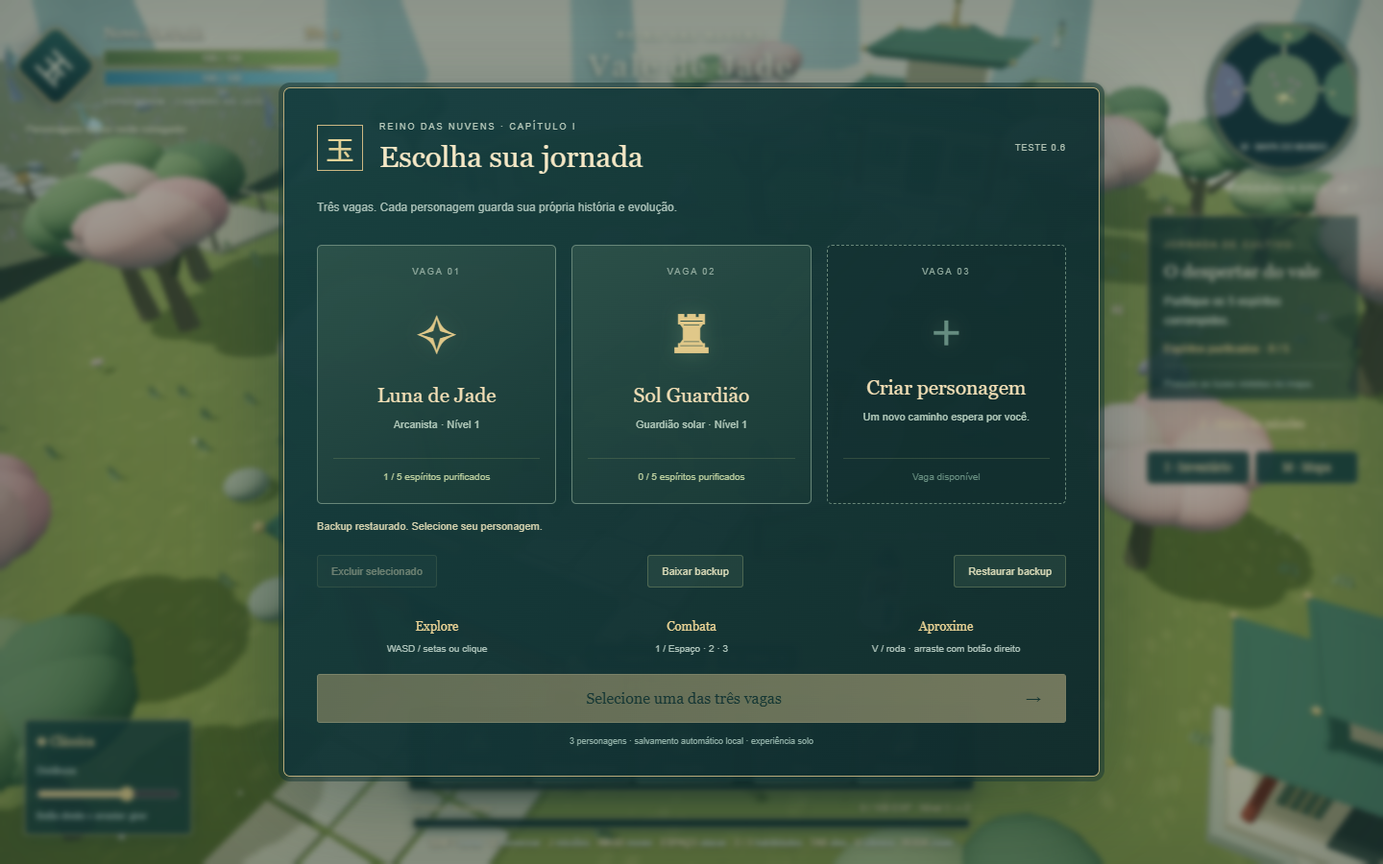
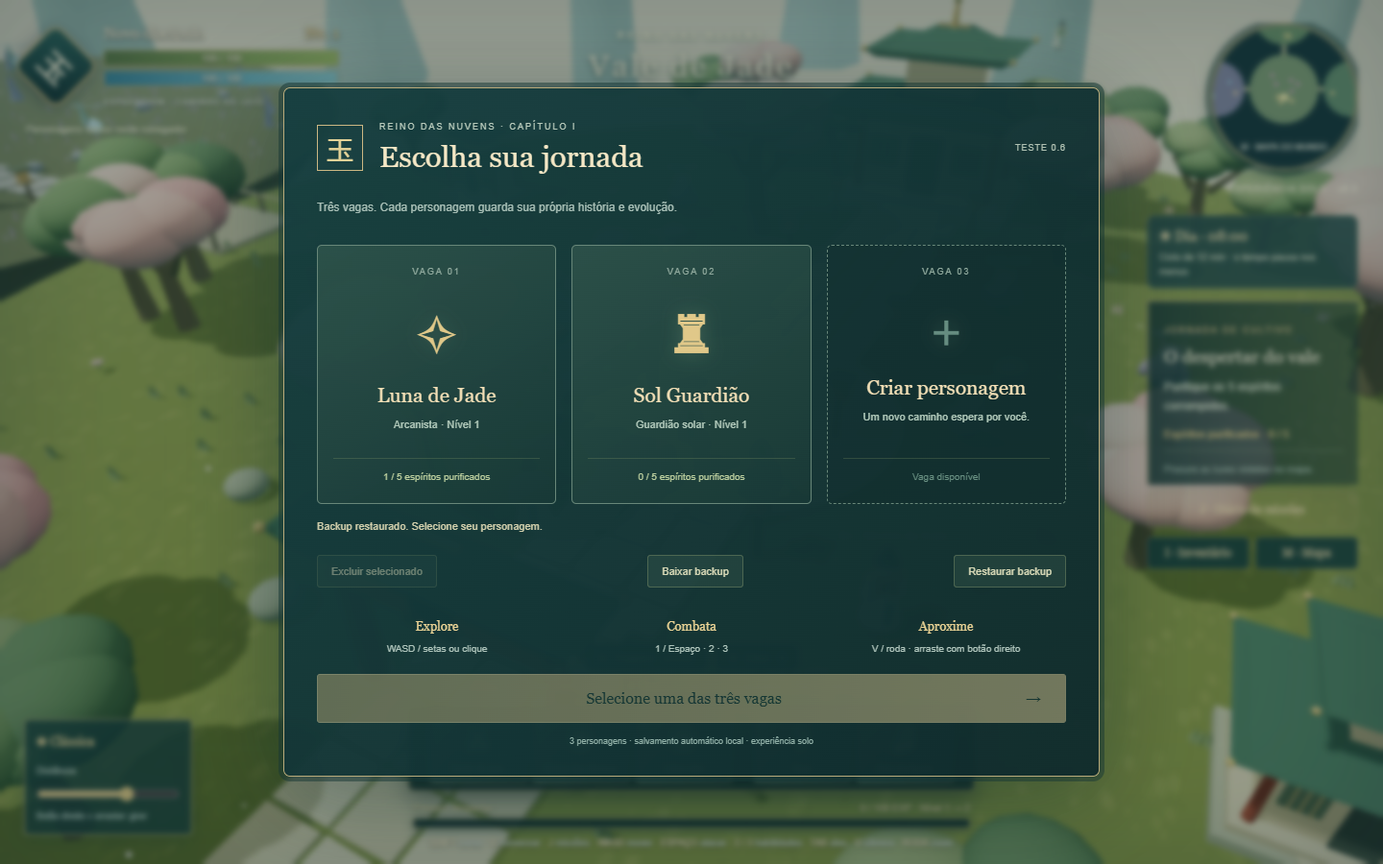
Vale de Jade v0.8: day-night cycle and torch lighting
Add a twelve-minute day/night cycle saved independently for each character and paused in menus. Blend the sky, fog, ambient light, moon and stars across dawn and dusk.

Place animated torches along roads, bridges and camps, with up to six pooled point lights illuminating nearby terrain and characters. Increase nighttime enemy perception by 50%, movement by 20% and attack cooldown recovery by 30%, while preserving the dodge warning duration. Show the clock, phase changes and nocturnal target status.

Verified continuous cycle rules, midnight wrap, pause/save/reload, actual nighttime pursuit, torch lights, legacy saves, three-slot backup/restore and 720p UI.

Changed region(s): [[0.8125, 0.2489, 1.0, 0.5911], [0.8125, 0.6222, 1.0, 0.6844]]

diff --git a/game.js b/game.js
@@ -5,7 +5,7 @@ let renderer;try{renderer=new T.WebGLRenderer({antialias:true,powerPreference:'h
 renderer.setPixelRatio(Math.min(devicePixelRatio,1.7));renderer.setSize(innerWidth,innerHeight);renderer.shadowMap.enabled=true;renderer.shadowMap.type=T.PCFSoftShadowMap;renderer.outputColorSpace=T.SRGBColorSpace;renderer.toneMapping=T.ACESFilmicToneMapping;renderer.toneMappingExposure=1.18;$('world').appendChild(renderer.domElement);
 const scene=new T.Scene();scene.background=new T.Color('#aec9c6');scene.fog=new T.FogExp2('#aec9c6',.008);
 const camera=new T.PerspectiveCamera(52,innerWidth/innerHeight,.08,420),clock=new T.Clock();
-scene.add(new T.HemisphereLight(0xfff4d9,0x658c83,1.7));const sun=new T.DirectionalLight(0xffe9c5,2.1);sun.position.set(-22,40,18);sun.castShadow=true;sun.shadow.mapSize.set(2048,2048);Object.assign(sun.shadow.camera,{left:-45,right:45,top:45,bottom:-45,near:1,far:110});sun.shadow.bias=-.001;scene.add(sun);
+const ambient=new T.HemisphereLight(0xfff4d9,0x658c83,1.7);scene.add(ambient);const sun=new T.DirectionalLight(0xffe9c5,2.1);sun.position.set(-22,40,18);sun.castShadow=true;sun.shadow.mapSize.set(2048,2048);Object.assign(sun.shadow.camera,{left:-45,right:45,top:45,bottom:-45,near:1,far:110});sun.shadow.bias=-.001;scene.add(sun);
 const mats=new Map();function mat(c){if(!mats.has(c))mats.set(c,new T.MeshStandardMaterial({color:c,roughness:.82,metalness:.02}));return mats.get(c);}
 function mesh(g,c,x=0,y=0,z=0,parent=scene){const m=new T.Mesh(g,typeof c==='string'||typeof c==='number'?mat(c):c);m.position.set(x,y,z);m.castShadow=true;m.receiveShadow=true;parent.add(m);return m;}
 function box(w,h,d,c,x,y,z,p){return mesh(new T.BoxGeometry(w,h,d),c,x,y,z,p);}function ball(r,c,x,y,z,p,s=1){const m=mesh(new T.IcosahedronGeometry(r,2),c,x,y,z,p);m.scale.y=s;return m;}
@@ -77,7 +77,7 @@ document.querySelectorAll('[data-class]').forEach(b=>b.onclick=()=>{if(menuMode!
 function renderSlots(){const wrap=$('slotCards');wrap.replaceChildren();characterStore.data.slots.forEach((slot,i)=>{const button=document.createElement('button');button.className='slotCard'+(selectedSlot===i?' chosen':'')+(slot?' occupied':' empty');button.dataset.slot=i;button.setAttribute('aria-pressed',selectedSlot===i?'true':'false');const number=document.createElement('small');number.textContent='VAGA 0'+(i+1);const icon=document.createElement('span');icon.className='slotIcon';icon.textContent=slot?CLASSES[slot.classId].icons[0]:'＋';const title=document.createElement('b');title.textContent=slot?slot.name:'Criar personagem';const detail=document.createElement('p');detail.textContent=slot?CLASSES[slot.classId].name+' · Nível '+slot.state.level:'Um novo caminho espera por você.';const status=document.createElement('div');status.className='slotProgress';const dead=slot?.state.enemies?.filter(e=>e.id<5&&!e.alive).length||0;status.textContent=slot?(slot.state.enemies?.some(e=>e.id===5&&!e.alive)?'✧ Vale restaurado':dead+' / 5 espíritos purificados'):'Vaga disponível';button.append(number,icon,title,detail,status);button.onclick=()=>{selectedSlot=i;$('deleteConfirm').hidden=true;if(!slot){menuMode='create';classId='sword';profileName='';$('nameInput').value='';$('roster').hidden=true;$('creationFields').hidden=false;$('backToSlots').hidden=false;$('classSummary').hidden=false;$('introText').textContent='Criar personagem na vaga '+(i+1)+'. As outras vagas permanecem guardadas.';$('start').disabled=false;$('start').innerHTML='Criar e entrar no vale <span>→</span>';$('profileStatus').textContent='Escolha um nome com 2 a 20 caracteres.';applyClass();$('nameInput').focus();}else{renderSlots();$('start').disabled=false;$('start').innerHTML='Jogar com '+escapeText(slot.name)+' <span>→</span>';}};wrap.append(button);});$('deleteSlot').disabled=selectedSlot<0||!characterStore.data.slots[selectedSlot];$('rosterStatus').textContent=characterStore.warning||'Escolha um personagem para continuar ou uma vaga vazia para criar.';}
 function escapeText(s){return s.replace(/[&<>"']/g,c=>({'&':'&amp;','<':'&lt;','>':'&gt;','"':'&quot;',"'":'&#39;'}[c]));}
 function showRoster(){running=false;started=false;activeSlot=-1;selectedSlot=-1;menuMode='roster';keysClear();selected=null;destination=null;$('target').hidden=true;$('enemyFloat').hidden=true;$('modal').style.display='grid';$('modal').classList.remove('paused');$('roster').hidden=false;$('creationFields').hidden=true;$('backToSlots').hidden=true;$('classSummary').hidden=true;$('pauseActions').hidden=true;$('deleteConfirm').hidden=true;$('restoreConfirm').hidden=true;toastTimer=0;$('toast').style.opacity=0;$('introText').textContent='Três vagas. Cada personagem guarda sua própria história e evolução.';$('start').disabled=true;$('start').innerHTML='Selecione uma das três vagas <span>→</span>';renderSlots();}
-function snapshot(){return {journey,inventory:bag,worldSeed:worldData.seed,discovered:[...discovered],summons:summons.filter(n=>n.hp>0).map(n=>({kind:n.kind,hp:n.hp,life:n.life})),quests:{...questStates},crystals:[...collected],level,xp,hp,mp,position:{x:player.position.x,z:player.position.z},rotation:player.rotation.y,cooldowns:[...cds],shieldTime,camDistance,camYaw,camPitch,enemies:enemies.filter(e=>!e.event).map(e=>({id:e.id,alive:e.alive,hp:e.hp,x:e.g.position.x,z:e.g.position.z,respawn:e.respawn||0,cycle:e.lootCycle||0}))};}
+function snapshot(){return {dayTime:environment.seconds,journey,inventory:bag,worldSeed:worldData.seed,discovered:[...discovered],summons:summons.filter(n=>n.hp>0).map(n=>({kind:n.kind,hp:n.hp,life:n.life})),quests:{...questStates},crystals:[...collected],level,xp,hp,mp,position:{x:player.position.x,z:player.position.z},rotation:player.rotation.y,cooldowns:[...cds],shieldTime,camDistance,camYaw,camPitch,enemies:enemies.filter(e=>!e.event).map(e=>({id:e.id,alive:e.alive,hp:e.hp,x:e.g.position.x,z:e.g.position.z,respawn:e.respawn||0,cycle:e.lootCycle||0}))};}
 function saveCharacter(manual=false){if(activeSlot<0)return false;const previous=characterStore.data.slots[activeSlot];const ok=characterStore.set(activeSlot,{...previous,name:profileName,classId,updatedAt:Date.now(),state:snapshot()});profileSaved=ok;saveTimer=0;saveRequested=false;lastSaveAt=Date.now();$('saveStatus').textContent=ok?'✓ '+profileName+' · salvo às '+new Date().toLocaleTimeString('pt-BR',{hour:'2-digit',minute:'2-digit'}):'⚠ Falha ao salvar · baixe um backup no menu';$('saveStatus').classList.toggle('saveError',!ok);if(manual){const message=ok?'Progresso de '+profileName+' salvo.':characterStore.warning;if(menuMode==='pause')$('introText').textContent=message;else toast(message);}return ok;}
 function clearTransient(){resetTrial();clearSummons();for(const e of effects)disposeEffect(e.m);effects.length=0;for(const f of floaters)disposeEffect(f.m);floaters.length=0;selected=null;destination=null;marker.visible=false;attackAnim=0;combo=0;comboTimer=0;}
 function clearEnemies(){for(const e of enemies){scene.remove(e.g,e.aura);e.g.traverse(o=>{if(!o.isSprite)o.geometry?.dispose();if(o.isMesh&&!Array.from(mats.values()).includes(o.material))o.material.dispose();if(o.isSprite){o.material.map?.dispose();o.material.dispose();}});e.aura.geometry.dispose();e.aura.material.dispose();}enemies.length=0;boss=null;}
@@ -133,15 +133,15 @@ const petalGeo=new T.BufferGeometry(),petalPos=[];for(let i=0;i<120;i++)petalPos
 const map=$('map').getContext('2d');function minimap(){map.clearRect(0,0,170,170);map.fillStyle='#31594e';map.fillRect(0,0,170,170);map.fillStyle='#79937a';map.beginPath();map.arc(85,85,73,0,7);map.fill();map.strokeStyle='#c9c7a0';map.lineWidth=5;map.beginPath();map.moveTo(85,32);map.lineTo(85,144);map.stroke();map.fillStyle='#6bb1ad';map.beginPath();map.ellipse(58,91,15,10,0,0,7);map.fill();map.fillStyle='#f0d29b';map.fillRect(77,34,16,10);for(const e of enemies.filter(e=>e.alive&&!e.dormant)){map.fillStyle=e.boss?'#ffc36f':'#d8b7f3';map.beginPath();map.arc(85+e.g.position.x*2.1,85+e.g.position.z*2.1,e.boss?4:3,0,7);map.fill();}map.fillStyle='#fff5c7';map.beginPath();map.arc(85+player.position.x*2.1,85+player.position.z*2.1,4,0,7);map.fill();}
 $('clearTarget').onclick=()=>{selected=null;destination=null;hud();};
 function cycleTarget(){const list=enemies.filter(e=>e.alive&&!e.dormant&&distanceTo(e)<28).sort((a,b)=>distanceTo(a)-distanceTo(b));if(!list.length){toast('Nenhum inimigo próximo.');return;}selected=list[(list.indexOf(selected)+1)%list.length];destination=null;hud();}
-function targetHUD(){const e=selected?.alive?selected:null;$('target').hidden=!e;$('enemyFloat').hidden=true;for(const n of enemies){n.aura.material.color.set(n===e?'#ffe2a3':n.boss?'#e9ab74':'#a6a0d9');n.aura.material.opacity=n===e?.95:.35;}if(!e)return;const pct=e.hp/e.max*100;$('targetName').textContent=e.name;$('targetKind').textContent=e.kind;$('targetHP').style.width=pct+'%';$('targetHPText').textContent=Math.ceil(e.hp)+' / '+e.max+' PV';$('targetHP').parentElement.setAttribute('aria-valuenow',Math.round(pct));$('targetDistance').textContent=Math.ceil(distanceTo(e))+' m · '+(distanceTo(e)<=config().range?'Ao alcance':'Fora do alcance')+' · TAB para trocar';}
+function targetHUD(){const e=selected?.alive?selected:null;$('target').hidden=!e;$('enemyFloat').hidden=true;for(const n of enemies){n.aura.material.color.set(n===e?'#ffe2a3':n.boss?'#e9ab74':'#a6a0d9');n.aura.material.opacity=n===e?.95:.35;}if(!e)return;const pct=e.hp/e.max*100;$('targetName').textContent=e.name;$('targetKind').textContent=e.kind+(environment.cycle.night>=.5?' · FÚRIA NOTURNA':'');$('targetHP').style.width=pct+'%';$('targetHPText').textContent=Math.ceil(e.hp)+' / '+e.max+' PV';$('targetHP').parentElement.setAttribute('aria-valuenow',Math.round(pct));$('targetDistance').textContent=Math.ceil(distanceTo(e))+' m · '+(distanceTo(e)<=config().range?'Ao alcance':'Fora do alcance')+' · TAB para trocar';}
 function floatingTarget(){if(!running||!selected?.alive){$('enemyFloat').hidden=true;return;}const v=selected.g.position.clone();v.y+=selected.boss?4.4:2.65;v.project(camera);const x=(v.x+1)*innerWidth/2,y=(1-v.y)*innerHeight/2;const visible=v.z>-1&&v.z<1&&x>40&&x<innerWidth-40&&y>120&&y<innerHeight-160;$('enemyFloat').hidden=!visible;if(visible){$('enemyFloat').style.transform=`translate(${x}px,${y}px) translate(-50%,-100%)`;$('enemyFloatName').textContent=selected.name;$('enemyFloatHP').style.width=(selected.hp/selected.max*100)+'%';}}
 let hudTimer=0;function hud(){hp=Math.max(0,hp);$('hp').style.transform=`scaleX(${hp/100})`;$('mp').style.transform=`scaleX(${mp/100})`;$('hpText').textContent=`${Math.ceil(hp)} / 100`;$('mpText').textContent=`${Math.floor(mp)} / 100`;$('level').textContent='Nv. '+level;const progress=Math.min(100,xp/nextXP()*100);$('xp').style.width=progress+'%';$('xp').parentElement.setAttribute('aria-valuenow',Math.round(progress));$('xpText').textContent=`${xp} / ${nextXP()} EXP · Nível ${level} → ${level+1}`;$('rankTitle').textContent=['Primeiro despertar','Discípulo do vale','Cultivador do jade'][Math.min(level-1,2)]+(shieldTime>0?' · Égide '+Math.ceil(shieldTime)+'s':'');document.querySelectorAll('[data-skill]').forEach((b,i)=>{const em=b.querySelector('em');em.style.display=cds[i]>.05?'flex':'none';em.textContent=cds[i]<1?cds[i].toFixed(1):Math.ceil(cds[i]);b.classList.toggle('noEnergy',mp<config().costs[i]);});targetHUD();minimap();}
-function frame(){requestAnimationFrame(frame);const dt=Math.min(clock.getDelta(),.04);time+=dt;
+function frame(){requestAnimationFrame(frame);const dt=Math.min(clock.getDelta(),.04);time+=dt;environment.update(dt,running,toast);
 if(running){updateJourney(dt);if((keys['1']||keys[' '])&&enemies.some(e=>e.alive&&!e.dormant&&distanceTo(e)<=config().range)&&(!selected||distanceTo(selected)<=config().range))skill(0);saveTimer+=dt;for(let i=0;i<3;i++)cds[i]=Math.max(0,cds[i]-dt);mp=Math.min(100,mp+dt*config().regen);shieldTime=Math.max(0,shieldTime-dt);comboTimer=Math.max(0,comboTimer-dt);let dx=0,dz=0;let sx=(keys.d||keys.arrowright?1:0)-(keys.a||keys.arrowleft?1:0),sy=(keys.s||keys.arrowdown?1:0)-(keys.w||keys.arrowup?1:0);if(sx||sy){destination=null;marker.visible=false;dx=sx*Math.cos(camYaw)+sy*Math.sin(camYaw);dz=-sx*Math.sin(camYaw)+sy*Math.cos(camYaw);}else if(destination){if(selected?.alive)destination.copy(selected.g.position);let d=destination.clone().sub(player.position);d.y=0;if(d.length()>(selected?config().range*.8:.25)){dx=d.x;dz=d.z;}else{if(selected)skill(0);else{destination=null;marker.visible=false;}}}let moving=!!(dx||dz);if(moving){let len=Math.hypot(dx,dz);move(dx/len*dt*(keys.shift?9:5.8),dz/len*dt*(keys.shift?9:5.8));}player.position.y=Math.abs(player.position.x+13)<8&&Math.abs(player.position.z-3)<1.15?.35+Math.sin(T.MathUtils.clamp((player.position.x+22)/12.35,0,1)*Math.PI)*1.05:0;
 attackAnim=Math.max(0,attackAnim-dt);player.userData.arms.forEach((a,i)=>a.rotation.x=attackAnim>0?-1.3+Math.sin(attackAnim*22)*.9:moving?Math.sin(time*12+i*Math.PI)*.4:Math.sin(time*2+i)*.045);
 updateExpansion(dt);updateAdventure(dt);
-for(const e of enemies){if(!e.alive||e.dormant||distanceTo(e)>65)continue;e.hit=Math.max(0,e.hit-dt);e.atk-=dt;const victim=enemyVictim(e);const d=victim.position.clone().sub(e.g.position);d.y=0;const distance=d.length(),reach=e.type==='wisp'?8:2.3;
-if(distance<(e.aggro||10)&&distance>reach*.8){d.normalize();const nx=e.g.position.x+d.x*dt*(e.speed||2),nz=e.g.position.z+d.z*dt*(e.speed||2);if(legal(nx,nz)){e.g.position.x=nx;e.g.position.z=nz;}e.g.rotation.y=Math.atan2(d.x,d.z);}
+for(const e of enemies){if(!e.alive||e.dormant||distanceTo(e)>65)continue;e.hit=Math.max(0,e.hit-dt);e.atk-=dt*environment.cycle.attackRate;const victim=enemyVictim(e);const d=victim.position.clone().sub(e.g.position);d.y=0;const distance=d.length(),reach=e.type==='wisp'?8:2.3;
+if(distance<(e.aggro||10)*environment.cycle.aggro&&distance>reach*.8){d.normalize();const nx=e.g.position.x+d.x*dt*(e.speed||2)*environment.cycle.speed,nz=e.g.position.z+d.z*dt*(e.speed||2)*environment.cycle.speed;if(legal(nx,nz)){e.g.position.x=nx;e.g.position.z=nz;}e.g.rotation.y=Math.atan2(d.x,d.z);}
 if(distance<reach&&e.atk<=0&&!e.windup){e.windup=.7;const warning=ring(e.type==='wisp'?1.7:2.5,'#ff7759',victim.position.x,victim.position.z,.12);addFX(warning,.7,{grow:.15});e.strike={x:victim.position.x,z:victim.position.z};}
 if(e.windup){e.windup-=dt;if(e.windup<=0){e.windup=0;e.atk=e.boss?1.8:2;burst(e.strike.x,e.strike.z,e.color||'#f0b69e',10,.3);if(resolveEnemyStrike(e)){break;}}}
 
@@ -330,9 +330,13 @@ const commerce=JadeCommerce({data:economyData,index:()=>activeSlot,dialog:(...ar
 }});
 const talkEconomyBase=talk;talk=function(n){talkEconomyBase(n);const r=JadeEconomy.REGIONS.findIndex(r=>r.id===n.id);if(r>0)dialogButton('Abrir mercado e trocas',()=>commerce.open(r));};
 
+// v0.8: persistent daylight and pooled torch lighting.
+const environment=JadeEnvironment({T,scene,sky,sun,ambient,player,glowTexture,legal});
+const loadDaylightBase=loadAdventure;loadAdventure=function(st){loadDaylightBase(st);environment.load(st,worldData);};
+
 applyClass();setDistance(30);camera.position.set(15,23,30);showRoster();hud();frame();window.addEventListener('resize',()=>{camera.aspect=innerWidth/innerHeight;camera.updateProjectionMatrix();renderer.setSize(innerWidth,innerHeight);});
 // Read-only diagnostics for smoke checks and future iteration.
-window.valeDeJade={getState:()=>({economy:JSON.parse(JSON.stringify(JadeEconomy.current(characterStore.data.economy))),journey:JSON.parse(JSON.stringify(journey)),trial:trial?{wave:trial.wave,remaining:enemies.filter(e=>e.event&&e.alive).length}:null,dodgeCD,potionCD,combatTime,activities:activities.map(a=>({kind:a.kind,id:a.id,x:a.g.position.x,z:a.g.position.z,visible:a.g.visible})),inventory:JSON.parse(JSON.stringify(bag)),gearBonus:{...gearBonus},inventoryOpen,atlasOpen,worldSeed:worldData.seed,regions:worldData.regions.map(r=>({id:r.id,x:r.x,z:r.z,r:r.r,tier:r.tier,name:r.name})),discovered:[...discovered],summons:summons.map(n=>({kind:n.kind,hp:n.hp,max:n.max,life:n.life,x:n.g.position.x,z:n.g.position.z})),running,menuMode,activeSlot,selectedSlot,slots:characterStore.data.slots.map(s=>s?{name:s.name,classId:s.classId,level:s.state.level,xp:s.state.xp}:null),selectedEnemy:selected?.alive?{id:selected.id,hp:selected.hp,max:selected.max}:null,hp,mp,kills,level,xp,xpNeeded:nextXP(),classId,profileName,profileSaved,camDistance,camYaw,camPitch,shieldTime,cooldowns:[...cds],won,position:{x:player.position.x,z:player.position.z},enemies:enemies.filter(e=>e.alive&&!e.dormant).map(e=>({id:e.id,x:e.g.position.x,z:e.g.position.z,hp:e.hp,max:e.max,power:e.power,level:e.level,procedural:e.procedural,boss:e.boss,type:e.type,name:e.name,screen:(()=>{const v=e.g.position.clone();v.y+=1.2;v.project(camera);return {x:(v.x+1)*innerWidth/2,y:(1-v.y)*innerHeight/2};})()})),quests:{...questStates},crystals:[...collected],region:regionName(),npcs:npcs.map(n=>({id:n.id,name:n.name,x:n.g.position.x,z:n.g.position.z})),drawCalls:renderer.info.render.calls})};
+window.valeDeJade={getState:()=>({daylight:environment.inspect(),economy:JSON.parse(JSON.stringify(JadeEconomy.current(characterStore.data.economy))),journey:JSON.parse(JSON.stringify(journey)),trial:trial?{wave:trial.wave,remaining:enemies.filter(e=>e.event&&e.alive).length}:null,dodgeCD,potionCD,combatTime,activities:activities.map(a=>({kind:a.kind,id:a.id,x:a.g.position.x,z:a.g.position.z,visible:a.g.visible})),inventory:JSON.parse(JSON.stringify(bag)),gearBonus:{...gearBonus},inventoryOpen,atlasOpen,worldSeed:worldData.seed,regions:worldData.regions.map(r=>({id:r.id,x:r.x,z:r.z,r:r.r,tier:r.tier,name:r.name})),discovered:[...discovered],summons:summons.map(n=>({kind:n.kind,hp:n.hp,max:n.max,life:n.life,x:n.g.position.x,z:n.g.position.z})),running,menuMode,activeSlot,selectedSlot,slots:characterStore.data.slots.map(s=>s?{name:s.name,classId:s.classId,level:s.state.level,xp:s.state.xp}:null),selectedEnemy:selected?.alive?{id:selected.id,hp:selected.hp,max:selected.max}:null,hp,mp,kills,level,xp,xpNeeded:nextXP(),classId,profileName,profileSaved,camDistance,camYaw,camPitch,shieldTime,cooldowns:[...cds],won,position:{x:player.position.x,z:player.position.z},enemies:enemies.filter(e=>e.alive&&!e.dormant).map(e=>({id:e.id,x:e.g.position.x,z:e.g.position.z,hp:e.hp,max:e.max,power:e.power,aggro:(e.aggro||10)*environment.cycle.aggro,speed:(e.speed||2)*environment.cycle.speed,attackRate:environment.cycle.attackRate,level:e.level,procedural:e.procedural,boss:e.boss,type:e.type,name:e.name,screen:(()=>{const v=e.g.position.clone();v.y+=1.2;v.project(camera);return {x:(v.x+1)*innerWidth/2,y:(1-v.y)*innerHeight/2};})()})),quests:{...questStates},crystals:[...collected],region:regionName(),npcs:npcs.map(n=>({id:n.id,name:n.name,x:n.g.position.x,z:n.g.position.z})),drawCalls:renderer.info.render.calls})};
 })();
 
 

diff --git a/index.html b/index.html
@@ -1,9 +1,9 @@
 <!doctype html>
-<html lang="pt-BR"><head><meta charset="utf-8"><meta name="viewport" content="width=device-width,initial-scale=1"><title>Vale de Jade · O despertar</title><link rel="stylesheet" href="style.css?v=7"></head>
+<html lang="pt-BR"><head><meta charset="utf-8"><meta name="viewport" content="width=device-width,initial-scale=1"><title>Vale de Jade · O despertar</title><link rel="stylesheet" href="style.css?v=8"></head>
 <body><div id="world"></div><div id="vignette"></div>
 <header><div class="crest">玉</div><div class="stats"><div class="name"><strong id="playerName">Discípulo das nuvens</strong> <span id="level">Nv. 1</span></div><div class="bar health"><i id="hp"></i><span id="hpText">100 / 100</span></div><div class="bar spirit"><i id="mp"></i><span id="mpText">100 / 100</span></div><small id="classTitle">ESPADACHIM · CAMINHO DO JADE</small></div></header>
 <div id="location"><span>REINO DAS NUVENS</span><h1>Vale de Jade</h1><div id="regionName">Santuário da Aurora</div></div>
-<aside><div class="mapFrame"><canvas id="map" width="170" height="170"></canvas><span>N</span></div><div class="version">EXPERIÊNCIA SOLO · v0.7</div><section class="quest"><small>JORNADA DE CULTIVO</small><h2>O despertar do vale</h2><p id="questText">Purifique os 5 espíritos corrompidos.</p><div id="questProgress">Espíritos purificados · 0 / 5</div><div class="questLine"><i id="questBar"></i></div><p id="questHint">Procure as luzes violetas no mapa.</p></section><button id="journalBtn">J · Diário de missões</button><div class="adventureButtons"><button id="inventoryBtn">I · Inventário</button><button id="atlasBtn">M · Mapa</button></div><div id="summonHUD" hidden></div><p id="journalHint"></p><div id="objectiveGuide"></div><div id="trialHUD" hidden></div></aside>
+<aside><div class="mapFrame"><canvas id="map" width="170" height="170"></canvas><span>N</span></div><div class="version">EXPERIÊNCIA SOLO · v0.8</div><div id="dayNightHUD"><strong id="worldClock">☀ Dia · 08:00</strong><small id="nightHint">Ciclo de 12 min · o tempo pausa nos menus</small></div><section class="quest"><small>JORNADA DE CULTIVO</small><h2>O despertar do vale</h2><p id="questText">Purifique os 5 espíritos corrompidos.</p><div id="questProgress">Espíritos purificados · 0 / 5</div><div class="questLine"><i id="questBar"></i></div><p id="questHint">Procure as luzes violetas no mapa.</p></section><button id="journalBtn">J · Diário de missões</button><div class="adventureButtons"><button id="inventoryBtn">I · Inventário</button><button id="atlasBtn">M · Mapa</button></div><div id="summonHUD" hidden></div><p id="journalHint"></p><div id="objectiveGuide"></div><div id="trialHUD" hidden></div></aside>
 <div id="target" hidden><div class="targetTop"><span id="targetKind">ESPÍRITO</span><button id="clearTarget" title="Remover seleção">×</button></div><b id="targetName"></b><div class="enemyHealth" role="progressbar" aria-label="Vida do inimigo" aria-valuemin="0" aria-valuemax="100"><i id="targetHP"></i><span id="targetHPText"></span></div><small id="targetDistance"></small></div><div id="enemyFloat" hidden><span id="enemyFloatName"></span><div><i id="enemyFloatHP"></i></div></div><div id="saveStatus" role="status">Personagens salvos neste navegador</div><nav id="cameraPanel"><button id="cameraBtn" title="V — alternar câmera">◉ <span>Clássica</span></button><label for="cameraRange">Distância</label><input id="cameraRange" aria-label="Distância da câmera" type="range" min="4" max="44" value="30" step="0.5"><small>Botão direito + arrastar: girar</small></nav><div id="interactHint" hidden></div><div id="lootNotice" role="status"></div><div id="toast" role="status"></div><div id="hint">V: alternar câmera · Botão direito + arrastar: olhar ao redor</div>
 <footer><div class="quickActions"><button id="dodgeBtn">Q · Esquiva <span id="dodgeStatus">pronta</span></button><button id="potionBtn">R · Elixir <span id="potionCount">0</span></button></div><div id="message">Bem-vindo ao vale. A pequena raposa acompanhará sua jornada.</div><div class="actionBar"><button data-skill="0" title="Espaço ou 1 — Corte de jade"><kbd>1</kbd><b>⚔</b><span>Corte de jade</span><em></em></button><button data-skill="1" title="2 — Lâminas celestes: ataque em área"><kbd>2</kbd><b>✧</b><span>Lâminas celestes</span><em></em></button><button data-skill="2" title="3 — Lótus vital: recupera vida"><kbd>3</kbd><b>❀</b><span>Lótus vital</span><em></em></button><div class="divider"></div><button id="helpBtn" title="Ajuda e pausa"><kbd>H</kbd><b>?</b><span>Guia</span></button><button id="soundBtn" title="Ativar ou desativar som"><b>♫</b><span>Som desligado</span></button></div><div class="progressCaption"><span id="rankTitle">Primeiro despertar</span><span id="xpText">0 / 100 EXP · Nível 1</span></div><div class="xp" role="progressbar" aria-label="Experiência para o próximo nível" aria-valuemin="0" aria-valuemax="100" aria-valuenow="0"><i id="xp"></i><div class="xpTicks"></div></div><div class="controls">SHIFT <span>correr</span> &nbsp; E <span>conversar</span> &nbsp; J <span>missões</span> &nbsp; WASD <span>mover</span> &nbsp; ESPAÇO <span>atacar</span> &nbsp; 2 / 3 <span>habilidades</span> &nbsp; TAB <span>alvo</span> &nbsp; V <span>câmera</span> &nbsp; RODA <span>zoom</span></div></footer>
 <section id="dialog" role="dialog" aria-modal="true" aria-labelledby="dialogTitle" hidden><div class="dialogCard"><button id="closeDialog" aria-label="Fechar conversa">×</button><small id="dialogSubtitle"></small><h2 id="dialogTitle"></h2><p id="dialogText"></p><div id="dialogActions"></div><p class="note">E: interagir · J: diário · Esc: voltar à jornada</p></div></section><section id="inventory" role="dialog" aria-modal="true" aria-labelledby="inventoryTitle" hidden><div class="inventoryPanel">
@@ -23,5 +23,5 @@
 <button class="classCard" data-class="summoner" aria-pressed="false"><span class="classIcon">☾</span><small>INVOCAÇÃO · TREVAS</small><b>Invocador</b><p>Convoca um cão sombrio, um espectro e um bruto para lutar ao seu lado.</p><div>ATAQUE <i>▰▰▰▰▱</i><br>DEFESA <i>▰▰▱▱▱</i></div></button></div></div><div id="classSummary" hidden>Espadachim · Corte de jade / Dança das lâminas / Lótus vital</div>
 <div class="instructions"><div><b>Explore</b><span>WASD / setas ou clique</span></div><div><b>Combata</b><span>1 / Espaço · 2 · 3</span></div><div><b>Aproxime</b><span>V / roda · arraste com botão direito</span></div></div>
 <button id="start" disabled>Selecione uma das três vagas <span>→</span></button><div id="pauseActions" hidden><button id="saveNow">Salvar agora</button><button id="switchCharacter">Salvar e trocar personagem</button></div><p class="note">3 personagens · salvamento automático local · experiência solo</p></div></div>
-<script src="vendor/three.min.js"></script><script src="systems.js?v=7"></script><script src="campaign.js?v=7"></script><script src="economy.js?v=7"></script><script src="commerce-ui.js?v=7"></script><script src="storage.js?v=7"></script><script src="game.js?v=7"></script></body></html>
+<script src="vendor/three.min.js"></script><script src="systems.js?v=8"></script><script src="campaign.js?v=8"></script><script src="economy.js?v=8"></script><script src="commerce-ui.js?v=8"></script><script src="daylight.js?v=8"></script><script src="environment.js?v=8"></script><script src="storage.js?v=8"></script><script src="game.js?v=8"></script></body></html>
 

diff --git a/environment.js b/environment.js
@@ -1,0 +1,37 @@
+/* Dynamic sky and pooled torch lighting; no extra shadow maps per torch. */
+(function(root){'use strict';
+root.JadeEnvironment=function({T,scene,sky,sun,ambient,player,glowTexture,legal}){
+ let seconds=JadeDaylight.START,cycle=JadeDaylight.state(seconds),torches=[],lightTimer=1,hudTimer=1,lastNight=false;
+ const lights=Array.from({length:6},()=>{const l=new T.PointLight('#ffae55',0,18,2);scene.add(l);return l;}),assignments=[];
+ scene.add(sun.target);
+ const colors={daySky:new T.Color('#4f8fba'),dayHorizon:new T.Color('#e4d9b1'),dayFog:new T.Color('#aec9c6'),nightSky:new T.Color('#081329'),nightHorizon:new T.Color('#354660'),nightFog:new T.Color('#26394e'),duskSky:new T.Color('#716781'),duskHorizon:new T.Color('#e6a27b'),daySun:new T.Color('#ffe9c5'),nightSun:new T.Color('#a8c7ff'),dayAmbient:new T.Color('#fff4d9'),nightAmbient:new T.Color('#9aafe1')};
+ const starGeo=new T.BufferGeometry(),positions=[];let seed=81;const rnd=()=>{seed=(Math.imul(seed,1664525)+1013904223)>>>0;return seed/4294967296;};for(let i=0;i<400;i++){const a=rnd()*Math.PI*2,y=.12+rnd()*.85,r=Math.sqrt(1-y*y);positions.push(Math.cos(a)*r*280,y*280,Math.sin(a)*r*280);}starGeo.setAttribute('position',new T.Float32BufferAttribute(positions,3));const stars=new T.Points(starGeo,new T.PointsMaterial({color:'#dbe7ff',size:.65,transparent:true,opacity:0,depthWrite:false,fog:false}));scene.add(stars);
+ const moon=new T.Mesh(new T.SphereGeometry(4,16,12),new T.MeshBasicMaterial({color:'#e2eaff',transparent:true,opacity:0,fog:false,depthWrite:false}));scene.add(moon);
+ function addTorch(x,z){if(!legal(x,z)||torches.some(t=>Math.hypot(t.g.position.x-x,t.g.position.z-z)<3))return;const g=new T.Group();g.position.set(x,0,z);scene.add(g);
+  const part=(geo,mat,y)=>{const m=new T.Mesh(geo,mat);m.position.y=y;m.receiveShadow=true;g.add(m);return m;};
+  part(new T.CylinderGeometry(.35,.46,.28,8),new T.MeshStandardMaterial({color:'#787b70'}),.14);part(new T.CylinderGeometry(.10,.16,1.75,7),new T.MeshStandardMaterial({color:'#684e3e'}),1.1);part(new T.CylinderGeometry(.31,.17,.3,8),new T.MeshStandardMaterial({color:'#453b36',metalness:.6,roughness:.4}),2);
+  const flame=part(new T.ConeGeometry(.21,.66,7),new T.MeshBasicMaterial({color:'#ffba54',transparent:true,opacity:0}),2.43);const core=part(new T.ConeGeometry(.12,.4,7),new T.MeshBasicMaterial({color:'#fff1af',transparent:true,opacity:0}),2.32);
+  const halo=new T.Sprite(new T.SpriteMaterial({map:glowTexture,color:'#ffac49',transparent:true,blending:T.AdditiveBlending,depthWrite:false,opacity:0}));halo.position.y=2.42;halo.scale.set(2.1,2.8,1);g.add(halo);torches.push({g,flame,core,halo});
+ }
+ function rebuild(world){for(const t of torches){scene.remove(t.g);t.g.traverse(o=>{o.geometry?.dispose();o.material?.dispose();});}torches=[];assignments.length=0;
+  for(const z of [-14,0,14,26])for(const x of [-5,5])addTorch(x,z);
+  for(const sign of [-1,1])for(const x of [34,43,52,68,84])addTorch(x*sign,2.1);
+  for(const r of world.regions)for(const dz of [-17,13])for(const dx of [-3.6,3.6])addTorch(r.x+dx,r.z+dz);
+  for(const b of world.bridges){const x=(b.x1+b.x2)/2,z=(b.z1+b.z2)/2;addTorch(x+(b.x1===b.x2?2:0),z+(b.z1===b.z2?2:0));}
+  lightTimer=1;
+ }
+ function update(dt,active,notify){seconds=JadeDaylight.advance(seconds,dt,active);cycle=JadeDaylight.state(seconds);const n=cycle.night,dusk=4*n*(1-n);
+  sky.material.uniforms.top.value.copy(colors.daySky).lerp(colors.nightSky,n).lerp(colors.duskSky,dusk*.6);sky.material.uniforms.bottom.value.copy(colors.dayHorizon).lerp(colors.nightHorizon,n).lerp(colors.duskHorizon,dusk*.8);
+  scene.fog.color.copy(colors.dayFog).lerp(colors.nightFog,n);scene.background.copy(scene.fog.color);scene.fog.density=.008+n*.002;
+  ambient.color.copy(colors.dayAmbient).lerp(colors.nightAmbient,n);ambient.intensity=1.7-1.12*n;ambient.groundColor.set('#658c83').lerp(colors.nightFog,n);
+  sun.color.copy(colors.daySun).lerp(colors.nightSun,n);sun.intensity=2.1-1.65*n;sun.position.set(player.position.x-22,40,player.position.z+18);sun.target.position.copy(player.position);
+  stars.position.copy(player.position);stars.material.opacity=n*.85;stars.visible=n>.01;moon.position.copy(player.position).add(new T.Vector3(-90,130,-155));moon.material.opacity=n;moon.visible=n>.01;
+  const flickerTime=seconds*2;for(let i=0;i<torches.length;i++){const t=torches[i];t.g.visible=t.g.position.distanceTo(player.position)<80;const f=1+Math.sin(flickerTime*7+i*2)*.1+Math.sin(flickerTime*13+i)*.06;t.flame.scale.set(1/f,f,1/f);t.core.scale.y=f;t.flame.material.opacity=n;t.core.material.opacity=n;t.halo.material.opacity=n*.6*f;t.flame.visible=t.core.visible=t.halo.visible=n>.01;}
+  lightTimer+=dt;if(lightTimer>=.25){lightTimer=0;const nearest=torches.map((t,i)=>({i,d:t.g.position.distanceTo(player.position)})).filter(t=>t.d<32).sort((a,b)=>a.d-b.d).slice(0,6);assignments.splice(0,assignments.length,...nearest.map(t=>t.i));}
+  lights.forEach((l,i)=>{const t=torches[assignments[i]];if(t){l.position.copy(t.g.position);l.position.y=2.5;l.intensity=n*38*(1+Math.sin(flickerTime*7+assignments[i]*2)*.08);}else l.intensity=0;});
+  const night=n>=.5;if(active&&night!==lastNight)notify(night?'A noite chegou. Inimigos percebem você mais longe e atacam mais rápido.':'O amanhecer chegou. A agressividade dos inimigos começa a diminuir.');lastNight=night;
+  hudTimer+=dt;if(hudTimer>=.2||dt===0){hudTimer=0;const panel=document.getElementById('dayNightHUD');panel.dataset.phase=night?'night':'day';document.getElementById('worldClock').textContent=(night?'☾ ':'☀ ')+cycle.phase+' · '+cycle.clock;document.getElementById('nightHint').textContent=night?'Vigilância +'+Math.round((cycle.aggro-1)*100)+'% · velocidade +'+Math.round((cycle.speed-1)*100)+'%':'Ciclo de 12 min · o tempo pausa nos menus';panel.title='À noite: alcance de percepção +50%, movimento +20% e recarga dos ataques 30% mais rápida. As tochas iluminam o caminho.';}
+ }
+ return {load(st,world){seconds=JadeDaylight.clean(st.dayTime);lastNight=JadeDaylight.state(seconds).night>=.5;rebuild(world);update(0,false,()=>{});},update,get seconds(){return seconds;},get cycle(){return cycle;},inspect(){return {...cycle,seconds,torchCount:torches.length,litTorches:cycle.night>.01?torches.length:0,activeLights:lights.filter(l=>l.intensity>0).length,torches:torches.map(t=>({x:t.g.position.x,z:t.g.position.z})),ambient:ambient.intensity,sun:sun.intensity};}};
+};
+})(window);

diff --git a/storage.js b/storage.js
@@ -4,6 +4,7 @@ const KEY='valeDeJade.characters.v3',BACKUP=KEY+'.backup',LEGACY='valeDeJade.pro
 const Systems=typeof module!=='undefined'?require('./systems.js'):root.JadeSystems;
 const Campaign=typeof module!=='undefined'?require('./campaign.js'):root.JadeCampaign;
 const Economy=typeof module!=='undefined'?require('./economy.js'):root.JadeEconomy;
+const Daylight=typeof module!=='undefined'?require('./daylight.js'):root.JadeDaylight;
 const classes=['sword','mage','guardian','summoner'];
 const number=(v,min,max,fallback)=>typeof v==='number'&&Number.isFinite(v)?Math.min(max,Math.max(min,v)):fallback;
 function cleanSlot(v){
@@ -12,7 +13,7 @@ function cleanSlot(v){
  const s=v.state&&typeof v.state==='object'?v.state:{};
  const level=Math.floor(number(s.level,1,100,1));
  const enemies=Array.isArray(s.enemies)?s.enemies.filter(e=>e&&Number.isInteger(e.id)&&e.id>=0&&e.id<=399).map(e=>({id:e.id,alive:e.alive!==false,hp:number(e.hp,0,e.id===5?280:e.id<5?64:4000,e.id===5?280:e.id<5?64:4000),x:number(e.x,-500,500,0),z:number(e.z,-500,500,0),respawn:number(e.respawn,0,180,0),cycle:Math.floor(number(e.cycle,0,1000000,0))})):null;
- return {id:typeof v.id==='string'?v.id:'character-'+Date.now(),name,classId:v.classId,createdAt:number(v.createdAt,0,1e15,Date.now()),updatedAt:number(v.updatedAt,0,1e15,Date.now()),state:{journey:Campaign.clean(s.journey,enemies||[]),inventory:Systems.cleanInventory(s.inventory,v.classId,level),worldSeed:Math.floor(number(s.worldSeed,1,4294967295,Systems.hash(v.id||name))),discovered:Array.isArray(s.discovered)?[...new Set(s.discovered.filter(n=>Number.isInteger(n)&&n>=0&&n<12))]:[],summons:Array.isArray(s.summons)&&v.classId==='summoner'?s.summons.filter((n,i,a)=>n&&['hound','shade','brute'].includes(n.kind)&&a.findIndex(x=>x?.kind===n.kind)===i).slice(0,3).map(n=>({kind:n.kind,hp:number(n.hp,1,2000,100),life:number(n.life,.1,60,30)})):[],quests:Object.fromEntries(['yun','lin','mei','heart',...Object.keys(Campaign.quests)].map(k=>[k,['active','done'].includes(s.quests?.[k])?s.quests[k]:'new'])),crystals:Array.isArray(s.crystals)?[...new Set(s.crystals.filter(n=>Number.isInteger(n)&&n>=0&&n<3))]:[],level,xp:Math.floor(number(s.xp,0,100+(level-1)*50-1,0)),hp:number(s.hp,1,100,100),mp:number(s.mp,0,100,100),position:{x:number(s.position?.x,-500,500,0),z:number(s.position?.z,-500,500,8)},rotation:number(s.rotation,-1000,1000,Math.PI),cooldowns:[0,1,2].map(i=>number(s.cooldowns?.[i],0,15,0)),shieldTime:number(s.shieldTime,0,5,0),enemies,camDistance:number(s.camDistance,4,44,30),camYaw:number(s.camYaw,-1e8,1e8,.48),camPitch:number(s.camPitch,.06,1.25,.6)}};
+ return {id:typeof v.id==='string'?v.id:'character-'+Date.now(),name,classId:v.classId,createdAt:number(v.createdAt,0,1e15,Date.now()),updatedAt:number(v.updatedAt,0,1e15,Date.now()),state:{dayTime:Daylight.clean(s.dayTime),journey:Campaign.clean(s.journey,enemies||[]),inventory:Systems.cleanInventory(s.inventory,v.classId,level),worldSeed:Math.floor(number(s.worldSeed,1,4294967295,Systems.hash(v.id||name))),discovered:Array.isArray(s.discovered)?[...new Set(s.discovered.filter(n=>Number.isInteger(n)&&n>=0&&n<12))]:[],summons:Array.isArray(s.summons)&&v.classId==='summoner'?s.summons.filter((n,i,a)=>n&&['hound','shade','brute'].includes(n.kind)&&a.findIndex(x=>x?.kind===n.kind)===i).slice(0,3).map(n=>({kind:n.kind,hp:number(n.hp,1,2000,100),life:number(n.life,.1,60,30)})):[],quests:Object.fromEntries(['yun','lin','mei','heart',...Object.keys(Campaign.quests)].map(k=>[k,['active','done'].includes(s.quests?.[k])?s.quests[k]:'new'])),crystals:Array.isArray(s.crystals)?[...new Set(s.crystals.filter(n=>Number.isInteger(n)&&n>=0&&n<3))]:[],level,xp:Math.floor(number(s.xp,0,100+(level-1)*50-1,0)),hp:number(s.hp,1,100,100),mp:number(s.mp,0,100,100),position:{x:number(s.position?.x,-500,500,0),z:number(s.position?.z,-500,500,8)},rotation:number(s.rotation,-1000,1000,Math.PI),cooldowns:[0,1,2].map(i=>number(s.cooldowns?.[i],0,15,0)),shieldTime:number(s.shieldTime,0,5,0),enemies,camDistance:number(s.camDistance,4,44,30),camYaw:number(s.camYaw,-1e8,1e8,.48),camPitch:number(s.camPitch,.06,1.25,.6)}};
 }
 function parse(raw){const v=JSON.parse(raw);if(!v||v.version!==3||!Array.isArray(v.slots)||v.slots.length!==3)throw Error('Invalid character collection');const slots=v.slots.map(x=>x===null?null:cleanSlot(x));if(v.slots.some((s,i)=>s!==null&&!slots[i]))throw Error('Invalid character');return {version:3,slots,economy:Economy.clean(v.economy)};}
 class CharacterStore{

diff --git a/style.css b/style.css
@@ -15,3 +15,5 @@
 .quickActions{display:flex;justify-content:center;gap:10px;margin-bottom:9px}.quickActions button{padding:7px 13px;border:1px solid #b4b88488;background:#163b38ee;border-radius:6px;font:11px Arial;color:#ecdfb9}.quickActions span{color:#abd3bf;margin-left:7px}#objectiveGuide{padding:10px 12px;background:#173736ed;border-left:2px solid #d3be86;color:#f4dca9;font:11px/1.6 Arial;margin-top:9px}#trialHUD{position:fixed;top:195px;left:50%;transform:translateX(-50%);background:#3e2754ee;border:1px solid #c8a6e2;padding:10px 20px;border-radius:6px;white-space:nowrap;font:12px Arial;color:#f0d7ff}#trialHUD[hidden]{display:none}.travelButton{padding:9px 12px;text-align:left;background:#496d5744;border:1px solid #b7c39866;color:#e8ddb5;border-radius:5px;font:11px Arial;cursor:pointer}#dialogActions button{line-height:1.5}#objectiveGuide:empty{display:none}@media(max-height:780px){#objectiveGuide{font-size:10px;padding:7px}.quickActions{margin-bottom:6px}#hint{display:none}#message{max-width:95%;margin:0 auto 6px}#interactHint{bottom:225px}#summonHUD{padding:5px}aside .version{margin-bottom:12px}#trialHUD{top:170px}}aside{max-height:calc(100vh - 40px);overflow-y:auto;scrollbar-width:thin}
 /* v0.7 caravan markets */
 .dialogCard.commerce{width:min(1040px,94vw);padding:28px 32px}.marketStats{display:flex;gap:20px;flex-wrap:wrap;align-items:center;padding:15px 18px;background:#071f2880;border:1px solid #b6c29b40;border-radius:8px}.marketStats strong{color:#f0d899;font-size:22px}.marketStats span{font-size:12px;color:#c3d9c9}.marketNotice{padding:9px 13px;border-left:3px solid #93c6ad;color:#d6e6d6;min-height:26px}.marketNotice.error{border-color:#e6a392;color:#ffc8b5}.marketTabs{display:flex;flex-wrap:wrap;gap:8px;margin:12px 0 20px}#dialogActions .marketTabs button{margin:0;padding:9px 12px;font-size:13px}#dialogActions .marketTabs button[aria-pressed=true]{background:#c8b57d;color:#173338}.marketGrid{display:grid;grid-template-columns:repeat(3,minmax(0,1fr));gap:14px}#dialogActions .marketItem{margin:0;padding:18px;border:1px solid #aac3ab40;border-radius:9px;background:#092b324a;min-width:0}.marketItem h3{font-size:19px}.marketItem p{font-size:12px}.marketContent label{display:block;font-size:12px;color:#d2dcca;margin:12px 0}.marketContent input,.marketContent select{display:block;box-sizing:border-box;width:100%;padding:9px 11px;margin-top:7px;color:#f2e6c9;background:#133238;border:1px solid #a4bba266;border-radius:5px}.marketContent option{background:#133238}.marketContent button:disabled{opacity:.4;cursor:not-allowed}.marketContent input:focus-visible,.marketContent select:focus-visible,.marketContent button:focus-visible{outline:2px solid #edda98;outline-offset:3px}.marketContent table{width:100%;border-collapse:collapse;font-size:13px}.marketContent th,.marketContent td{padding:14px 10px;border-bottom:1px solid #b4c5a344;text-align:left}.marketContent th{color:#e8d299}.tradeColumns{display:grid;grid-template-columns:1fr 1fr;gap:20px;margin-top:20px}.marketContent>div>button{margin-right:10px}@media(max-width:800px){.marketGrid{grid-template-columns:repeat(2,minmax(0,1fr))}.dialogCard.commerce{padding:24px 18px}}@media(max-width:540px){.marketGrid,.tradeColumns{grid-template-columns:1fr}.marketContent table{font-size:11px}.marketContent th,.marketContent td{padding:8px 3px}}
+/* v0.8 world clock */
+#dayNightHUD{margin:0 0 12px;padding:10px 12px;background:#284d4be8;border:1px solid #c9c59a66;border-radius:8px;color:#f3dfb0}#dayNightHUD strong{display:block;font:15px Georgia}#dayNightHUD small{display:block;font:10px/1.5 Arial;margin-top:5px;color:#d9dfc7}#dayNightHUD[data-phase=night]{background:#202e50ee;border-color:#a9b9de88}#dayNightHUD[data-phase=night] strong{color:#d4e2ff}@media(max-height:780px){#dayNightHUD{padding:7px 9px;margin-bottom:8px}#dayNightHUD strong{font-size:13px}}

diff --git a/daylight.js b/daylight.js
@@ -1,0 +1,9 @@
+/* A twelve-minute local day, advancing only during active play. */
+(function(root){'use strict';
+const DURATION=720,START=240;
+const clean=v=>typeof v==='number'&&Number.isFinite(v)&&v>=0?v%DURATION:START;
+const smooth=t=>{t=Math.max(0,Math.min(1,t));return t*t*(3-2*t);};
+function state(seconds){const hour=clean(seconds)/DURATION*24,night=hour<5||hour>=19?1:hour<7?1-smooth((hour-5)/2):hour<17?0:smooth((hour-17)/2),phase=hour>=5&&hour<7?'Amanhecer':hour>=7&&hour<17?'Dia':hour>=17&&hour<19?'Anoitecer':'Noite';return {hour,night,phase,clock:String(Math.floor(hour)).padStart(2,'0')+':'+String(Math.floor(hour%1*60)).padStart(2,'0'),aggro:1+.5*night,speed:1+.2*night,attackRate:1+.3*night};}
+function advance(seconds,dt,active){return clean(clean(seconds)+(active&&Number.isFinite(dt)?Math.max(0,dt):0));}
+const api={DURATION,START,clean,state,advance};root.JadeDaylight=api;if(typeof module!=='undefined')module.exports=api;
+})(typeof window!=='undefined'?window:globalThis);

diff --git a/README.md b/README.md
@@ -1,13 +1,36 @@
 # Vale de Jade — Além das nuvens
 
 Protótipo 3D solo de fantasia oriental, desenvolvido em JavaScript e Three.js.
-**Versão 0.7:** economia regional, caravanas, encomendas e trocas entre personagens.
+**Versão 0.8:** ciclo de dia e noite, tochas e agressividade noturna.
 
 ## Jogar
 
 Abra `index.html` no Chrome ou Edge. Extraia o ZIP inteiro antes de abrir.
 Não exige instalação, servidor ou conexão com a internet. Use teclado e mouse.
 Se já estiver jogando, atualize a página para carregar a nova versão.
+
+## Dia, noite e tochas
+
+Um dia completo dura **12 minutos de jogo ativo**. Personagens novos ou antigos sem
+horário registrado começam às 08:00. Cada vaga salva seu próprio horário, inclusive
+nos backups. Menus, inventário, mapa e conversas pausam o relógio.
+
+- Amanhecer: 05:00–07:00; dia: 07:00–17:00; anoitecer: 17:00–19:00;
+  noite: 19:00–05:00. A luz e a agressividade mudam suavemente nas transições.
+- Na noite plena, inimigos percebem alvos **50% mais longe**, movem-se **20% mais
+  rápido** e recuperam o ataque **30% mais rápido**. O aviso de golpe permanece
+  com 0,7 segundo para permitir esquiva. Os bônus também se aplicam aos chefes.
+- O relógio abaixo do minimapa informa a fase. Avisos anunciam a chegada da noite
+  e do amanhecer; o alvo mostra Fúria noturna durante o período escuro.
+- Tochas em caminhos, pontes e acampamentos acendem gradualmente ao anoitecer,
+  com chama animada e luz quente sobre o cenário. Iluminam, mas não afastam inimigos.
+- Céu, neblina, luz ambiente, estrelas e lua acompanham o ciclo. A luz lunar
+  mantém o terreno visível fora das tochas.
+- São usadas até seis luzes de tocha próximas, sem sombras adicionais, para limitar
+  o custo gráfico. A posição das tochas respeita as áreas transitáveis do mapa.
+
+![Dia no santuário](ciclo-dia.png)
+![Noite com tochas](ciclo-noite.png)
 
 ## Economia e comércio
 
@@ -178,7 +201,7 @@ automaticamente a cada três segundos e nas mudanças importantes.
 
 O menu de pausa oferece Salvar agora e Salvar e trocar personagem. Baixar backup
 exporta as três vagas; Restaurar backup valida o arquivo e pede confirmação antes de
-substituí-las. A migração preserva os personagens das versões 0.2 a 0.6.
+substituí-las. A migração preserva os personagens das versões 0.2 a 0.7.
 
 O armazenamento é local ao navegador, sem conta online ou sincronização em nuvem.
 Trocar de navegador, endereço ou computador, limpar os dados ou usar modo privado
@@ -216,3 +239,6 @@ original; nenhum arquivo, personagem ou código de Zu Online foi utilizado.
 Com Node.js: `node systems.test.cjs`, `node campaign.test.cjs` e `node economy.test.cjs`.
 Os testes da economia cobrem limites, conservação de recursos, estoque compartilhado,
 recompensas únicas por renovação e cancelamento quando o armazenamento falha.
+
+Dia/noite: `node daylight.test.cjs` verifica as transições contínuas, a virada do dia,
+a pausa, os modificadores de agressividade e a compatibilidade dos horários salvos.
